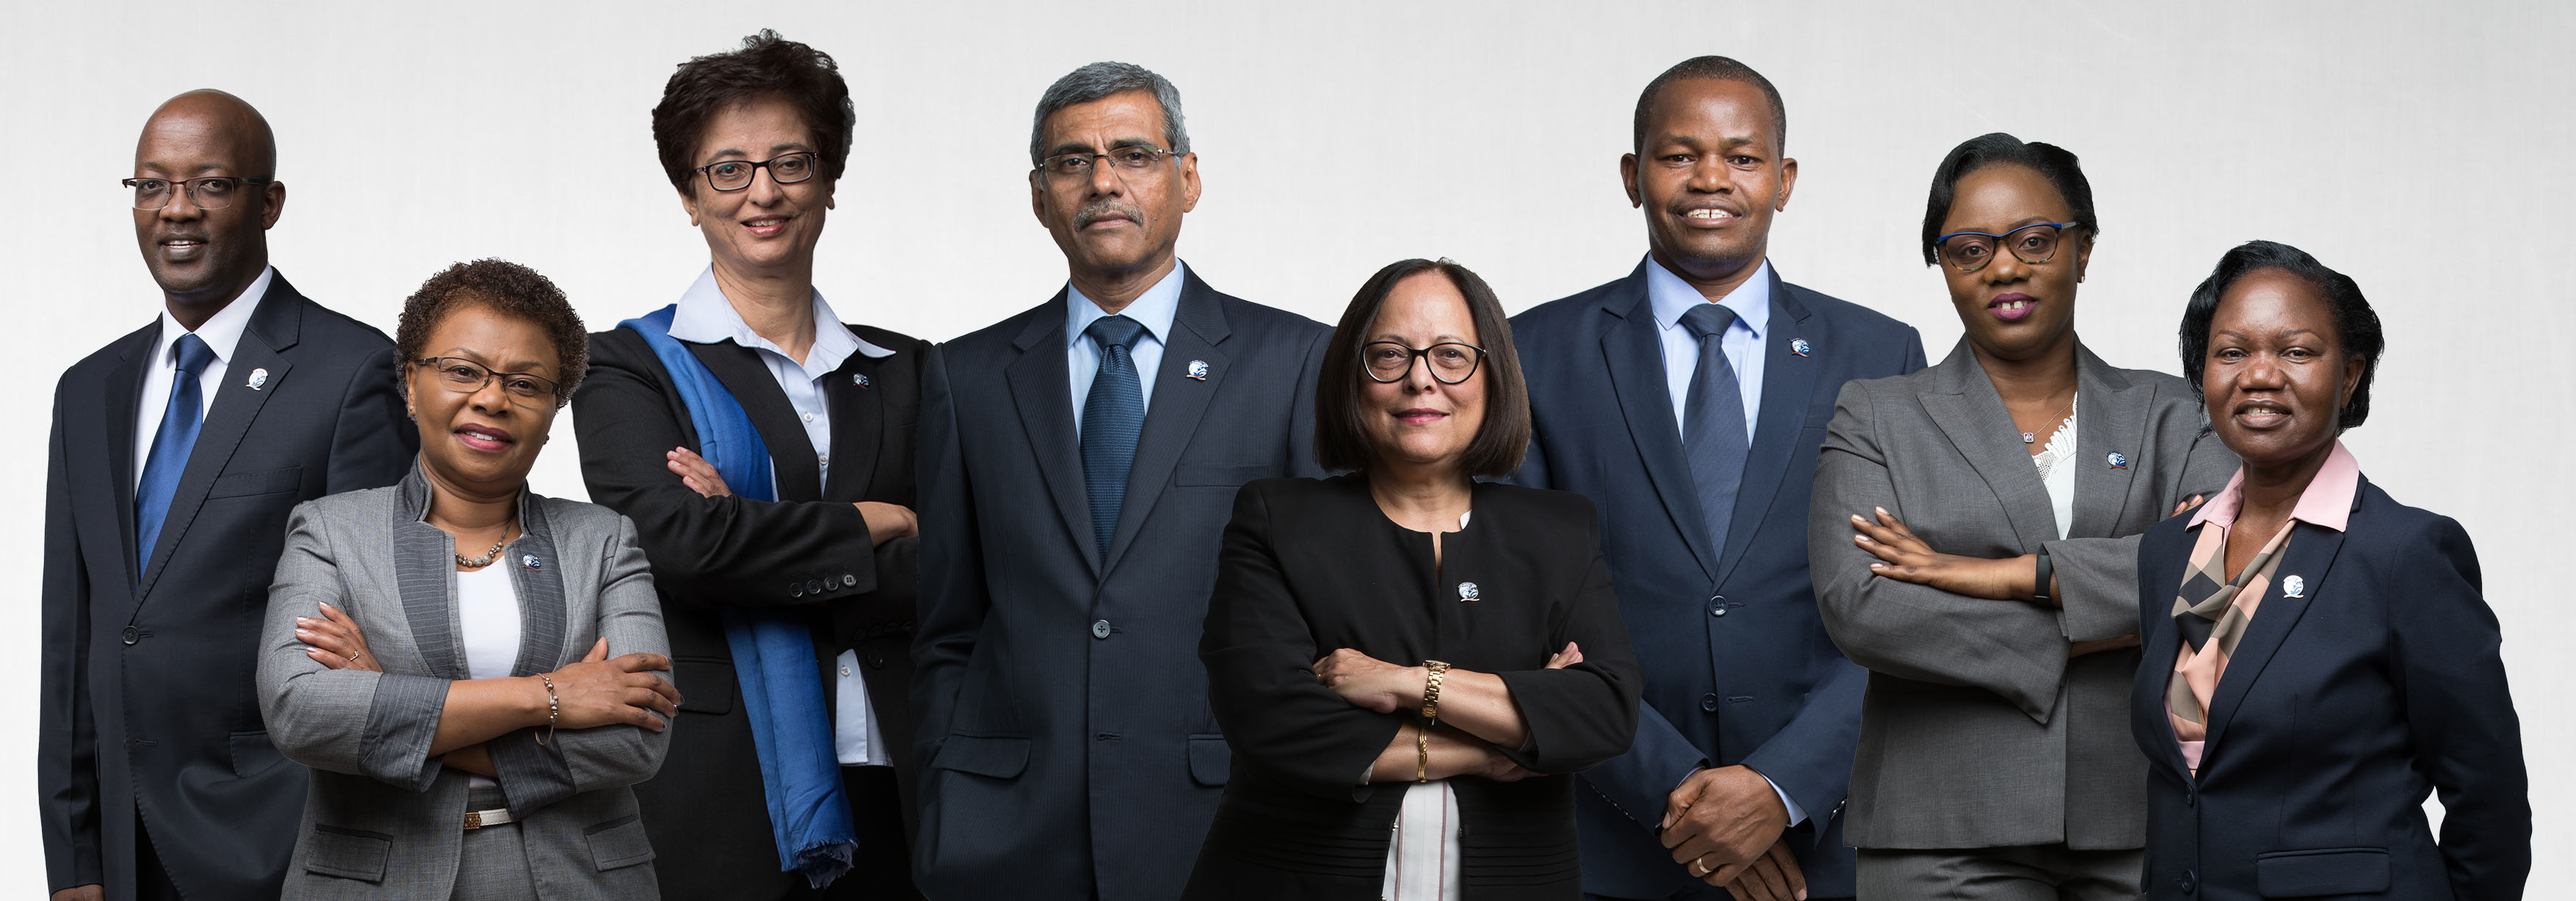
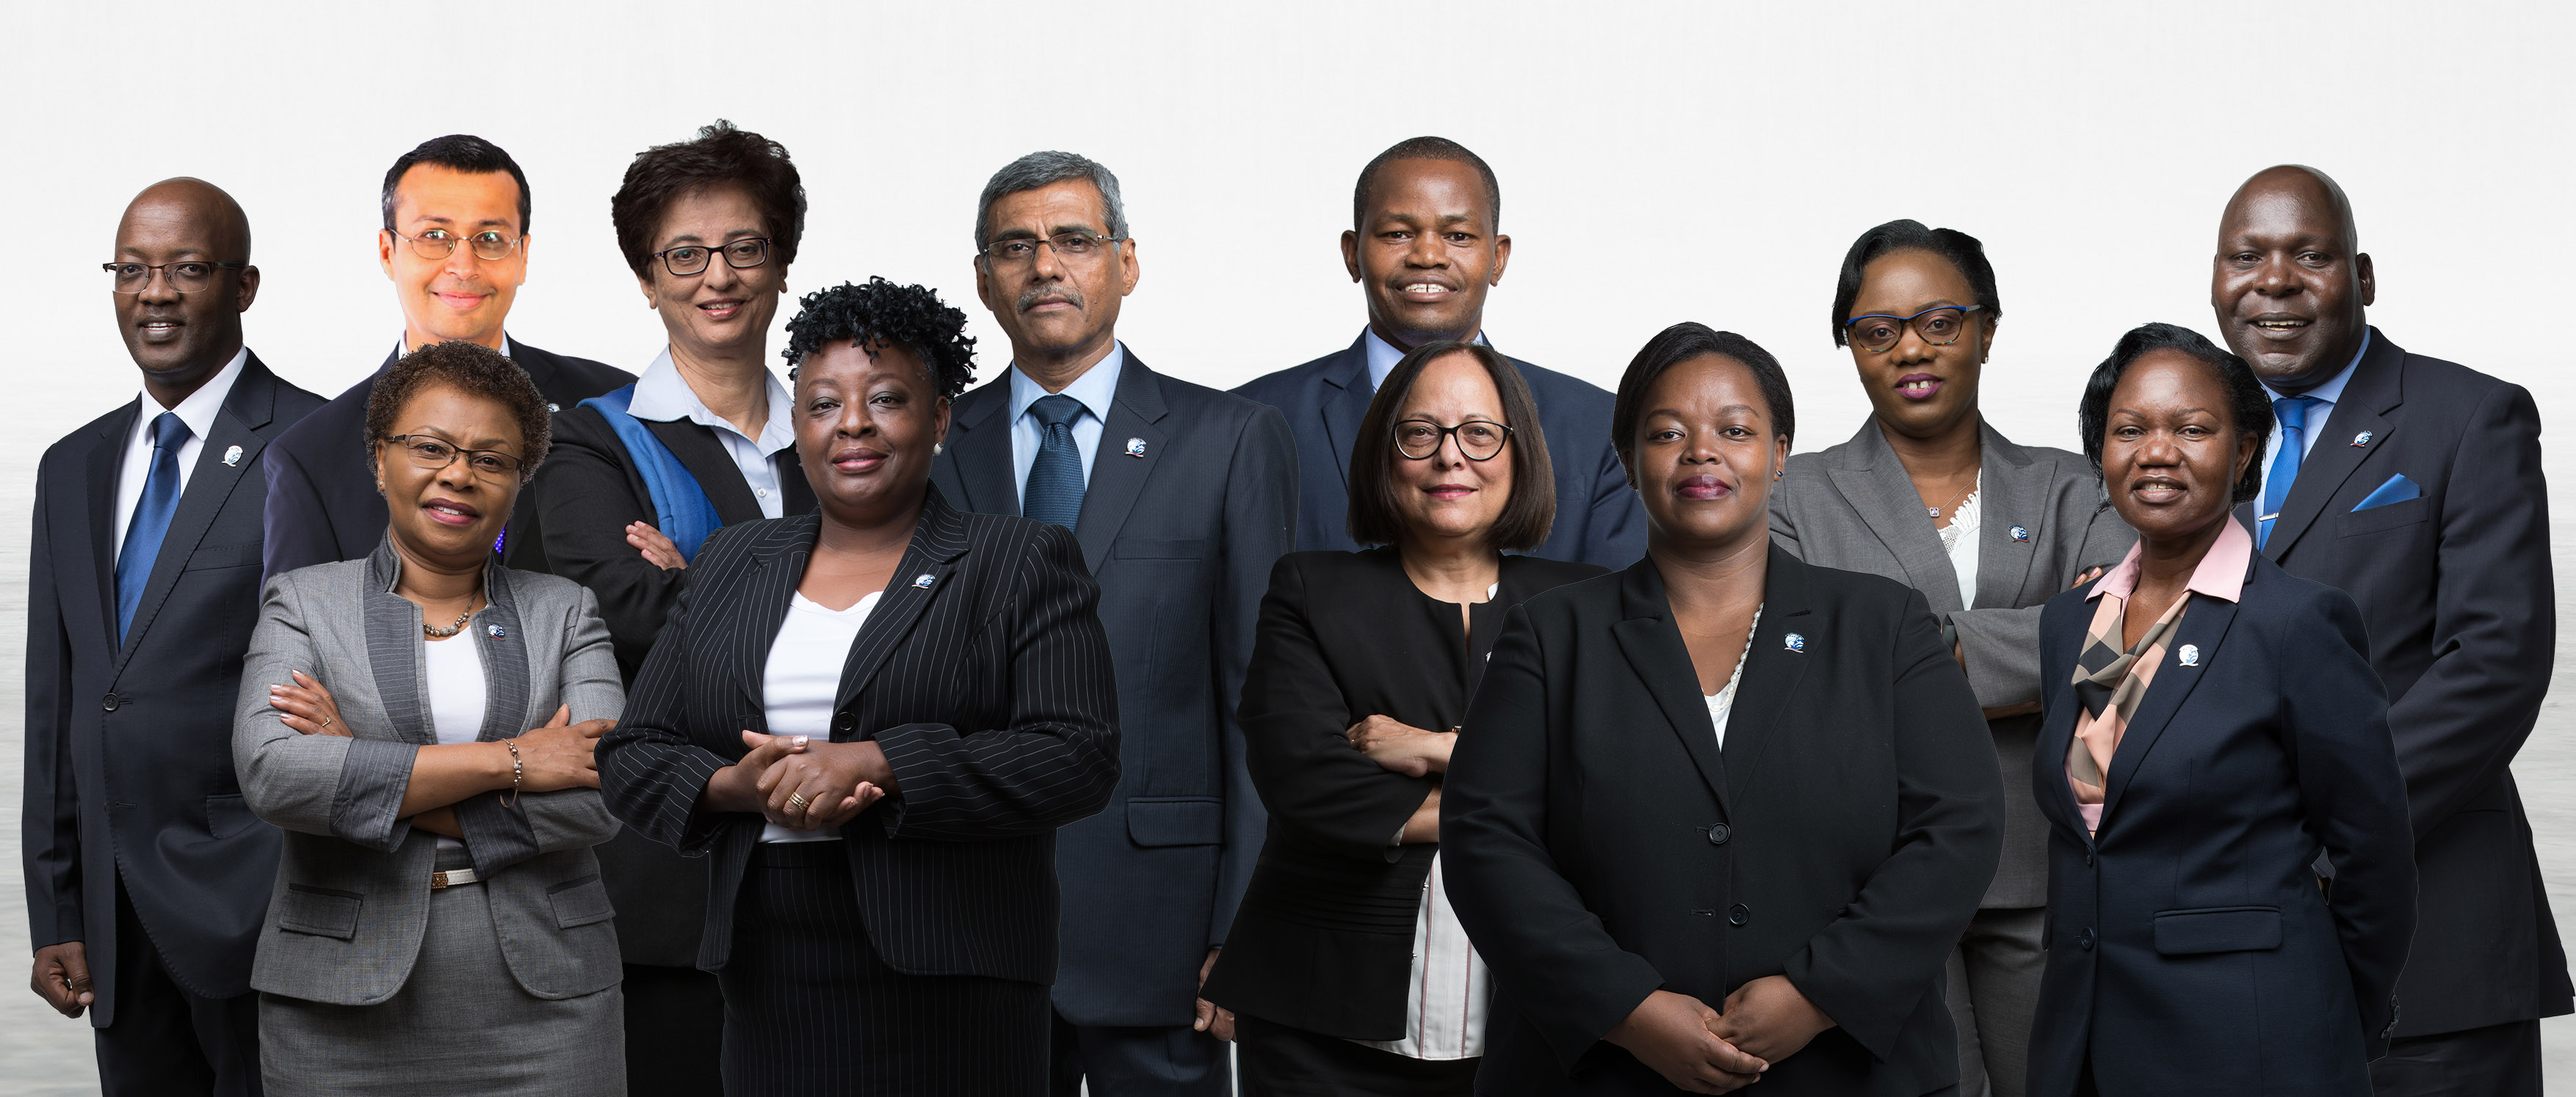
replaces leaders and managment

diff --git a/css/draft.css b/css/draft.css
@@ -198,8 +198,8 @@ a:focus {
     background-image: url(../img/group/heads.jpg);
     background-size: cover;
     background-repeat: no-repeat;
-    background-position: center;
-    margin-top: 1%;
+    background-position: top;
+    margin-top: 4%;
 
 }
 
